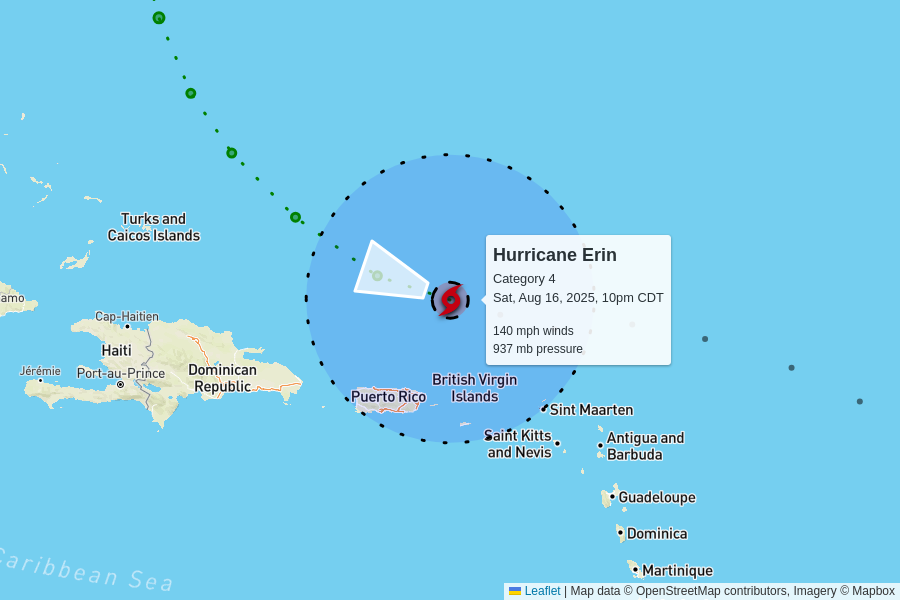
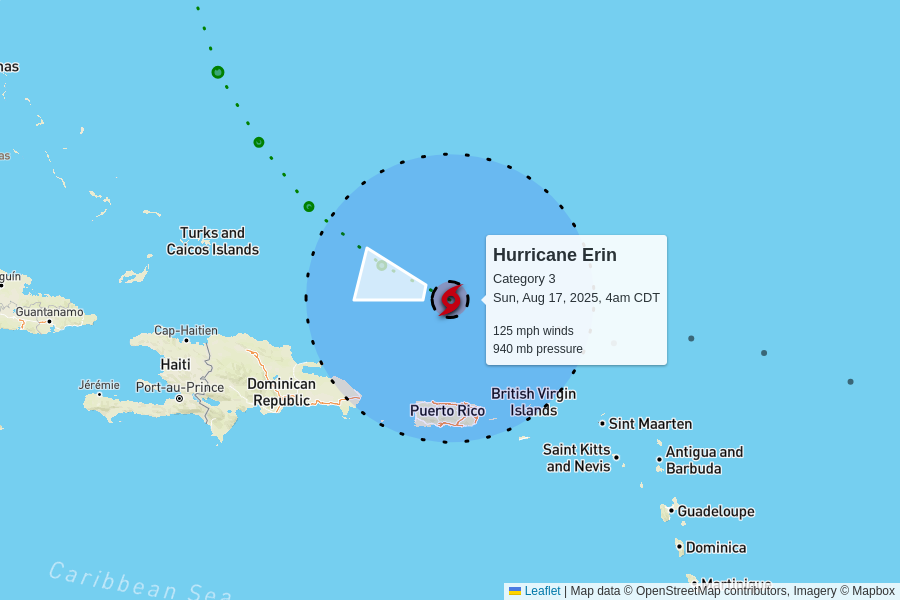
automatic update

diff --git a/docs/index.html b/docs/index.html
@@ -99,10 +99,10 @@
 
     <table>
       <tr>
-        <td colspan="6" class="storm category-4" >
+        <td colspan="6" class="storm category-3" >
           <h2>
-            Hurricane Erin - Category 4
-            <p class="updated">last updated <span data-time>2025-08-17T03:00:00.000Z</span></p>
+            Hurricane Erin - Category 3
+            <p class="updated">last updated <span data-time>2025-08-17T09:00:00.000Z</span></p>
           </h2>
         </td>
       </tr>
@@ -117,12 +117,12 @@
       </tr>
       <tr>
         <td class="spacer"></td>
-        <td>140 mph<br>-20 mph since last update</td>
-        <td>937 mb<br>+22 mb since last update</td>
+        <td>125 mph<br>-15 mph since last update</td>
+        <td>940 mb<br>+3 mb since last update</td>
         <td>
           14 mph to the west-northwest
           <br/>
-          <span style="display: inline-block; font-size: 1.5em; transform: rotate(290deg);">↑</span>
+          <span style="display: inline-block; font-size: 1.5em; transform: rotate(285deg);">↑</span>
         </td>
         <td><a href="https://raw.githubusercontent.com/mgwalker/atlantic-hurricanes/main/data/csv/AL052025.csv">AL052025.csv</a></td>
         <td><a href="https://www.nhc.noaa.gov/archive/2025/ERIN.shtml?">NHC advisories</a></td>
